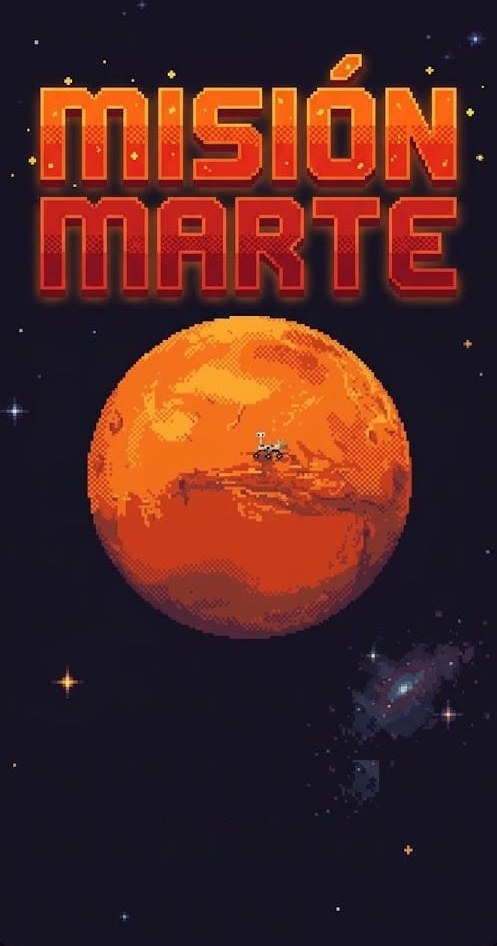
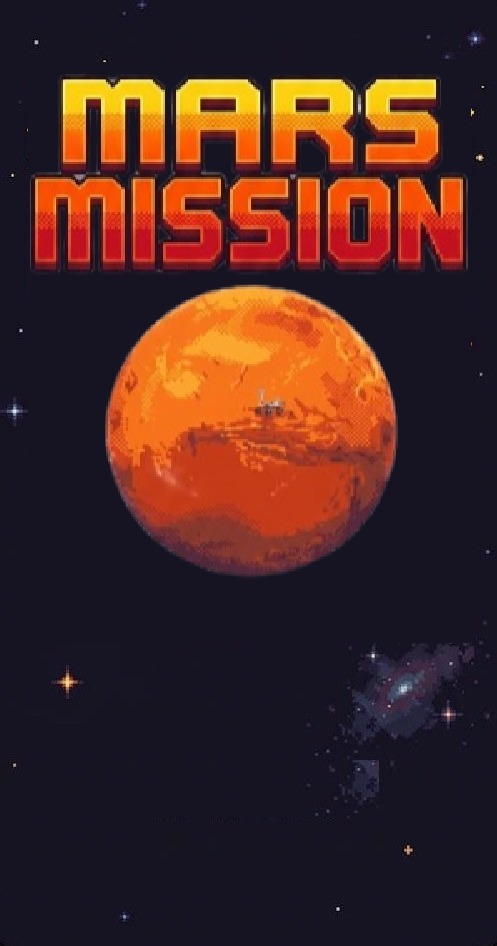
Replace cover art with the English "Mars Mission" title
Claude-Session: https://claude.ai/code/session_01RB7g72erX7Pso3g6qBEQhf

diff --git a/index.html b/index.html
@@ -255,7 +255,7 @@ details summary{cursor:pointer;list-style:none;display:flex;gap:8px;align-items:
 <!-- Portada -->
 <section class="screen gutter" id="title">
   <button class="musBtn" id="bMus" aria-label="Music on or off">🎵</button>
-  <h1 class="sr">Mission Mars</h1>
+  <h1 class="sr">Mars Mission</h1>
   <p class="fire fireY">PROJECT ARES · 2050</p>
   <p class="fire fireTag">Lead the first crew and turn a frozen red crater into humanity's new home.</p>
   <div class="stack">

diff --git a/README.md b/README.md
@@ -1,4 +1,4 @@
-# Mission Mars · Project Ares 2050
+# Mars Mission · Project Ares 2050
 
 Educational mobile game (for kids aged 7 to 12) about founding the first human colony on Mars.
 
